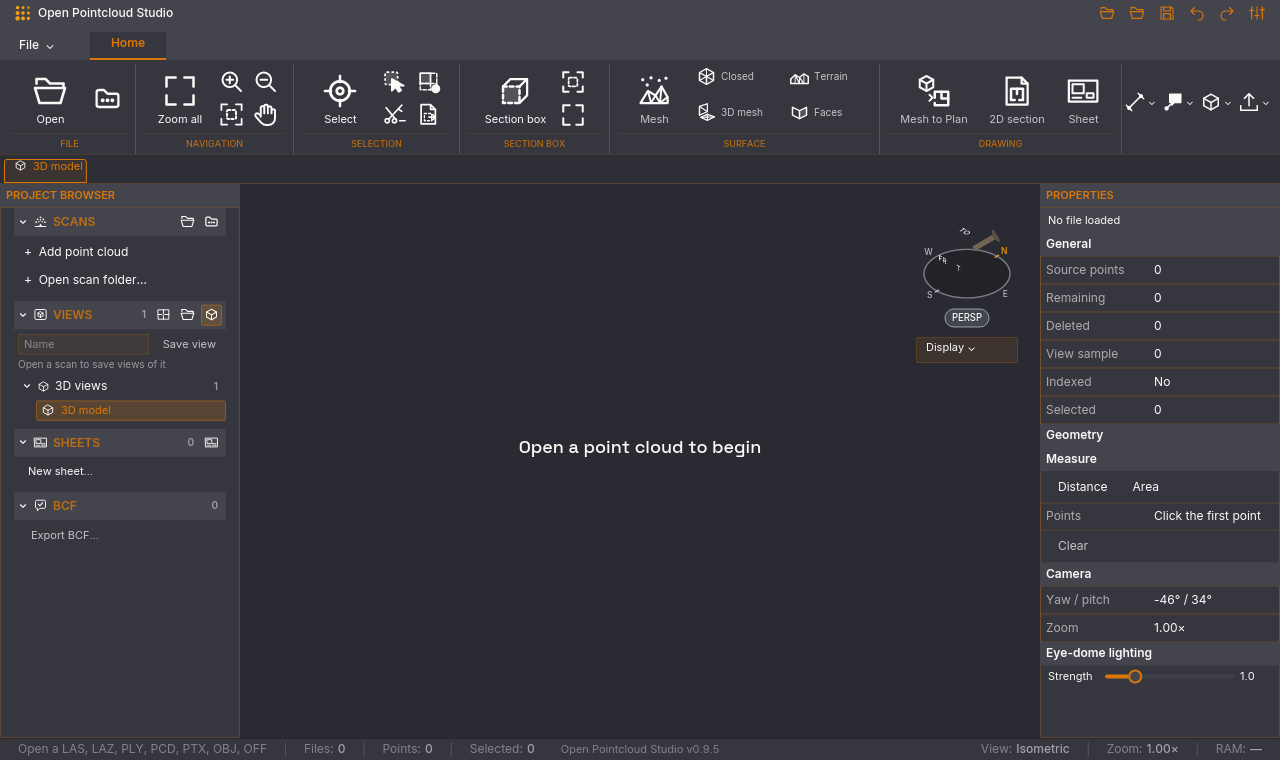
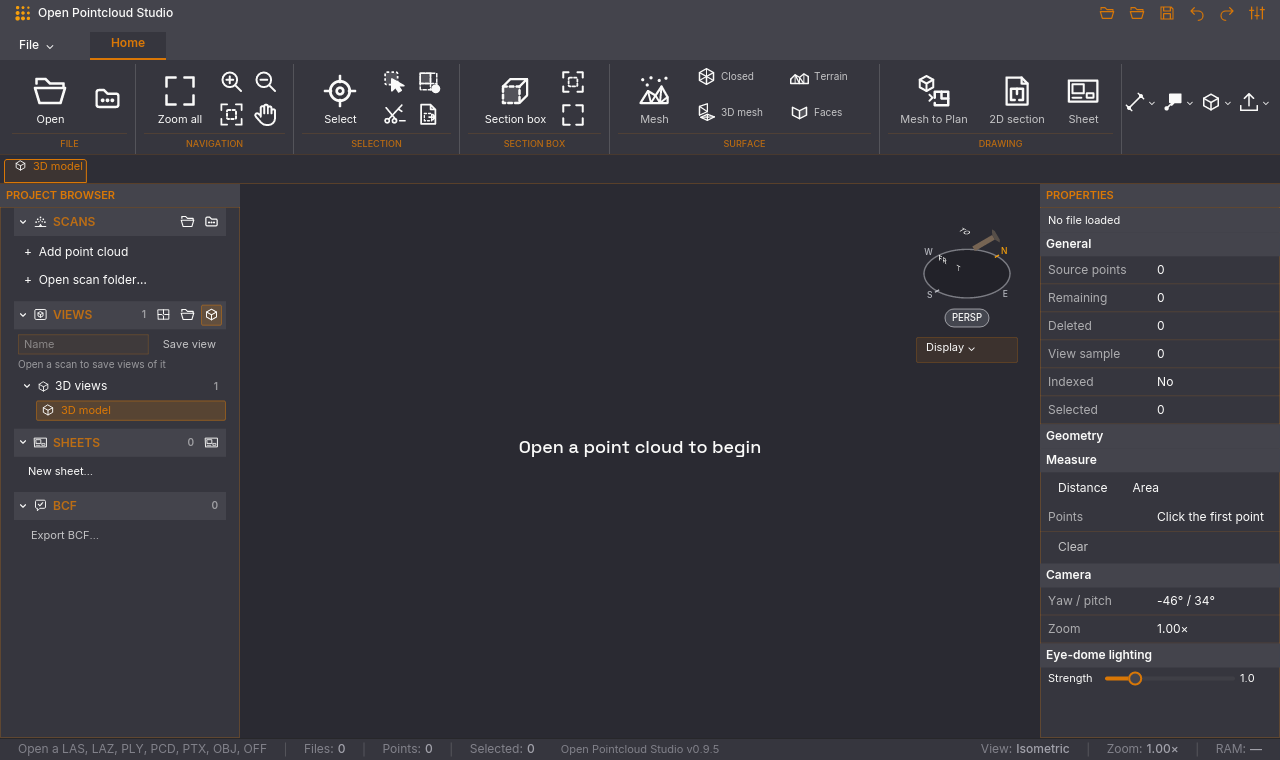
Use shared Rust property grid in Pointcloud dock

diff --git a/native/desktop/src/opencad_properties.rs b/native/desktop/src/opencad_properties.rs
@@ -4,7 +4,7 @@
 // iced 0.13 palette API.
 
 use iced::widget::{container, row, text};
-use iced::{Background, Border, Element, Fill, Length, Theme};
+use iced::{Border, Element, Fill, Length, Theme};
 
 use crate::ui_style;
 use crate::ui_theme;
@@ -13,33 +13,11 @@ use crate::Message;
 const ROW_H: f32 = 28.0;
 const FONT_SZ: f32 = 12.0;
 
-/// OpenCADStudio's two-column label/value row, adapted for read-only scan data.
+/// Shared property-grid row with Pointcloud's translated field label.
 pub fn property_row(label: &'static str, value: String) -> Element<'static, Message> {
-    let label = crate::i18n::tr(label);
-    let label_col = container(text(label).size(FONT_SZ).style(|theme| text::Style {
-        color: Some(ui_theme::colors(theme).text_secondary),
-    }))
-    .width(Length::FillPortion(5))
-    .height(ROW_H)
-    .align_y(iced::Alignment::Center)
-    .padding([0, 6]);
-    let value_col = container(text(value).size(FONT_SZ))
-        .width(Length::FillPortion(6))
-        .height(ROW_H)
-        .align_y(iced::Alignment::Center)
-        .padding([0, 5]);
-    container(row![label_col, value_col])
-        .height(ROW_H)
-        .width(Fill)
-        .style(|theme: &Theme| container::Style {
-            border: Border {
-                color: ui_theme::colors(theme).border_subtle,
-                width: 1.0,
-                radius: 0.0.into(),
-            },
-            ..Default::default()
-        })
-        .into()
+    openaec_ui::widgets::property_grid_row_with(
+        crate::i18n::tr(label), value, ui_theme::shared_theme,
+    )
 }
 
 /// Keep survey bounds readable within OpenCADStudio's narrow properties dock.
@@ -86,38 +64,14 @@ pub fn bounds_row(axis: &'static str, min: f64, max: f64) -> Element<'static, Me
         .into()
 }
 
-/// Editable variant of OpenCADStudio's two-column property row.
+/// Editable property field in the shared grid.
 pub fn property_input<'a>(
     label: &'static str,
     placeholder: &'static str,
     value: &'a str,
     on_input: impl Fn(String) -> Message + 'a,
 ) -> Element<'a, Message> {
-    let label = crate::i18n::tr(label);
-    let label_col = container(text(label).size(FONT_SZ).style(|theme| text::Style {
-        color: Some(ui_theme::colors(theme).text_secondary),
-    }))
-    .width(Length::FillPortion(5))
-    .height(ROW_H)
-    .align_y(iced::Alignment::Center)
-    .padding([0, 6]);
-    let value_col = container(ui_style::text_input(placeholder, value).on_input(on_input))
-        .width(Length::FillPortion(6))
-        .height(ROW_H)
-        .align_y(iced::Alignment::Center)
-        .padding([0, 5]);
-    container(row![label_col, value_col])
-        .height(ROW_H)
-        .width(Fill)
-        .style(|theme: &Theme| container::Style {
-            border: Border {
-                color: ui_theme::colors(theme).border_subtle,
-                width: 1.0,
-                radius: 0.0.into(),
-            },
-            ..Default::default()
-        })
-        .into()
+    property_control(label, ui_style::text_input(placeholder, value).on_input(on_input).into())
 }
 
 /// The two-column row with a control of the caller's choice, such as a
@@ -126,46 +80,15 @@ pub fn property_control<'a>(
     label: &'static str,
     control: Element<'a, Message>,
 ) -> Element<'a, Message> {
-    let label = crate::i18n::tr(label);
-    let label_col = container(text(label).size(FONT_SZ).style(|theme| text::Style {
-        color: Some(ui_theme::colors(theme).text_secondary),
-    }))
-    .width(Length::FillPortion(5))
-    .height(ROW_H)
-    .align_y(iced::Alignment::Center)
-    .padding([0, 6]);
-    let value_col = container(control)
-        .width(Length::FillPortion(6))
-        .height(ROW_H)
-        .align_y(iced::Alignment::Center)
-        .padding([0, 5]);
-    container(row![label_col, value_col])
-        .height(ROW_H)
-        .width(Fill)
-        .style(|theme: &Theme| container::Style {
-            border: Border {
-                color: ui_theme::colors(theme).border_subtle,
-                width: 1.0,
-                radius: 0.0.into(),
-            },
-            ..Default::default()
-        })
-        .into()
+    openaec_ui::widgets::property_grid_control_with(
+        crate::i18n::tr(label), control, ui_theme::shared_theme,
+    )
 }
 
 pub fn section_header(title: &'static str) -> Element<'static, Message> {
-    container(
-        text(crate::i18n::tr(title))
-            .size(12)
-            .font(crate::fonts::SEMIBOLD),
+    openaec_ui::widgets::property_section_with(
+        crate::i18n::tr(title), ui_theme::shared_theme,
     )
-    .width(Fill)
-    .padding([4, 6])
-    .style(|theme| container::Style {
-        background: Some(Background::Color(ui_theme::colors(theme).bg_lighter)),
-        ..Default::default()
-    })
-    .into()
 }
 
 /// A control whose explanation shows in a tooltip above it instead of as

diff --git a/native/ui/src/widgets.rs b/native/ui/src/widgets.rs
@@ -667,3 +667,87 @@ pub fn property<'a, M: 'a>(
     .spacing(12)
     .into()
 }
+
+/// A compact 28 px property-grid row. The application supplies the field;
+/// the crate owns the common label/value columns and bottom rule.
+pub fn property_grid_control_with<'a, M: 'a, F>(
+    label: impl Into<String>,
+    control: Element<'a, M>,
+    resolve_theme: F,
+) -> Element<'a, M>
+where
+    F: Fn(&iced::Theme) -> Theme + Copy + 'a,
+{
+    let label = container(text(label.into()).font(fonts::BODY).size(12).style(move |theme| {
+        text::Style {
+            color: Some(resolve_theme(theme).tokens().text_secondary),
+        }
+    }))
+    .width(Length::FillPortion(5))
+    .height(27)
+    .padding([0, 8])
+    .align_y(iced::Alignment::Center);
+    let value = container(control)
+        .width(Length::FillPortion(6))
+        .height(27)
+        .padding([0, 8])
+        .align_y(iced::Alignment::Center)
+        .style(move |theme| {
+            container::Style::default().color(resolve_theme(theme).tokens().text)
+        });
+    let rule = container(iced::widget::Space::new(Fill, 1))
+        .width(Fill)
+        .style(move |theme| {
+            container::Style::default().background(resolve_theme(theme).tokens().border_subtle)
+        });
+    column![row![label, value].height(27), rule]
+        .height(28)
+        .width(Fill)
+        .into()
+}
+
+pub fn property_grid_row_with<'a, M: 'a, F>(
+    label: impl Into<String>,
+    value: impl Into<String>,
+    resolve_theme: F,
+) -> Element<'a, M>
+where
+    F: Fn(&iced::Theme) -> Theme + Copy + 'a,
+{
+    property_grid_control_with(
+        label,
+        text(value.into()).font(fonts::BODY).size(12).into(),
+        resolve_theme,
+    )
+}
+
+pub fn property_grid_row<'a, M: 'a>(
+    label: impl Into<String>,
+    value: impl Into<String>,
+    theme: Theme,
+) -> Element<'a, M> {
+    property_grid_row_with(label, value, move |_| theme)
+}
+
+pub fn property_section_with<'a, M: 'a, F>(
+    title: impl Into<String>,
+    resolve_theme: F,
+) -> Element<'a, M>
+where
+    F: Fn(&iced::Theme) -> Theme + Copy + 'a,
+{
+    container(text(title.into()).font(fonts::STRONG).size(12))
+        .width(Fill)
+        .height(24)
+        .padding([0, 6])
+        .align_y(iced::Alignment::Center)
+        .style(move |theme| {
+            let t = resolve_theme(theme).tokens();
+            container::Style::default().background(t.bg_lighter).color(t.text)
+        })
+        .into()
+}
+
+pub fn property_section<'a, M: 'a>(title: impl Into<String>, theme: Theme) -> Element<'a, M> {
+    property_section_with(title, move |_| theme)
+}

diff --git a/native/desktop/src/shell_tests.rs b/native/desktop/src/shell_tests.rs
@@ -142,6 +142,20 @@ fn ribbon_group_rules_follow_style_book_geometry() {
 }
 
 #[test]
+fn shared_property_rows_keep_a_28_pixel_rhythm_in_both_themes() {
+    let mut studio = Studio::default();
+    for theme in [UiTheme::Light, UiTheme::Forge] {
+        studio.ui_theme = theme;
+        let picture = crate::test_render::render_window(&studio, iced::Size::new(1280.0, 760.0));
+        let rule = picture.rgb(1100, 283);
+        assert_eq!(picture.rgb(1100, 311), rule, "{} second row", theme.key());
+        assert_eq!(picture.rgb(1100, 339), rule, "{} third row", theme.key());
+        assert_ne!(picture.rgb(1100, 282), rule, "{} one-pixel rule", theme.key());
+        assert_ne!(picture.rgb(1100, 256), picture.rgb(1100, 232), "{} section boundary", theme.key());
+    }
+}
+
+#[test]
 #[ignore = "regenerate native review images on demand"]
 fn export_harmonized_shell_previews() {
     let folder = std::path::Path::new(env!("CARGO_MANIFEST_DIR")).join("../design");

diff --git a/native/README.md b/native/README.md
@@ -62,7 +62,7 @@ The design follows [OpenCADStudio](https://github.com/HakanSeven12/OpenCADStudio
 
 Each file states its source and what was changed. OpenCADStudio is GPL-3.0, so the desktop crate is GPL-3.0-only; the licence text is [`desktop/LICENSE-GPL-3.0`](desktop/LICENSE-GPL-3.0). The core stays LGPL-3.0-or-later.
 
-Colours, group captions, active and hover states and the Settings dialog follow the [OpenAEC style book](https://github.com/OpenAEC-Foundation/OpenAEC-style-book). The five themes Light, Forge (dark), OpenAEC (dark), Blueprint and High contrast, with Light as the default, are the five columns of `themes.css` of its desktop template (commit `dfdcd41`): `ui_theme.rs` holds every variable of that file as a token of the same name, unchanged, with the semantic colours of the brand beside them and, under `dom`, the colours of the application itself (the scene, the paper of a drawing and of a sheet, and what is drawn on them). The fonts are those of the style book, static files under the SIL Open Font License: Inter in the weights 400, 500 and 600 for the interface and Space Grotesk Medium for headings, with their roles in `fonts.rs`, which every text drawn on a canvas names as well (a test holds it), the texts of drawings and sheets keeping a sans-serif of the system; see [`assets/fonts/README.md`](assets/fonts/README.md). `ui_style.rs` holds the shared styles of the shell: the primary and secondary buttons, the buttons of the ribbon and the small actions of the panels, links, text fields, choice lists with their menu, checkboxes, sliders, progress bars, scroll bars and tooltips, made through its own constructors (a test holds that the window makes none of these widgets itself), and the arrow that stays the pointer over buttons; the canvases never ask for the hand either (a test holds it), but light up what a click acts on or show the pointer for dragging over what is dragged. `status_bar.rs` supplies Pointcloud-specific status cells and cancel actions to the portable `openaec-ui::frame::status_bar`; the crate now owns the 22 px band, top rule, background and padding in every theme. The document strip is likewise framed by `openaec-ui::frame::document_bar` with the Style Book 30 px band and source borders. Its 24 px tabs and close controls use the shared `widgets::document_tab_style` and `widgets::document_close_style`; Pointcloud keeps its tab identities, shortening, close behavior and scroll position. Ten reviewed general tool icons now come from the shared Rust set; Zoom in, Zoom out, Pan and Fit selection were checked at 16, 24 and 32 px in Light and Forge before replacing their local SVGs. The ribbon groups now use `openaec-ui::widgets::ribbon_group` for their 94 px frame, inset, label rule and right separator; the adaptive ribbon still measures and collapses Pointcloud’s live command groups.
+Colours, group captions, active and hover states and the Settings dialog follow the [OpenAEC style book](https://github.com/OpenAEC-Foundation/OpenAEC-style-book). The five themes Light, Forge (dark), OpenAEC (dark), Blueprint and High contrast, with Light as the default, are the five columns of `themes.css` of its desktop template (commit `dfdcd41`): `ui_theme.rs` holds every variable of that file as a token of the same name, unchanged, with the semantic colours of the brand beside them and, under `dom`, the colours of the application itself (the scene, the paper of a drawing and of a sheet, and what is drawn on them). The fonts are those of the style book, static files under the SIL Open Font License: Inter in the weights 400, 500 and 600 for the interface and Space Grotesk Medium for headings, with their roles in `fonts.rs`, which every text drawn on a canvas names as well (a test holds it), the texts of drawings and sheets keeping a sans-serif of the system; see [`assets/fonts/README.md`](assets/fonts/README.md). `ui_style.rs` holds the shared styles of the shell: the primary and secondary buttons, the buttons of the ribbon and the small actions of the panels, links, text fields, choice lists with their menu, checkboxes, sliders, progress bars, scroll bars and tooltips, made through its own constructors (a test holds that the window makes none of these widgets itself), and the arrow that stays the pointer over buttons; the canvases never ask for the hand either (a test holds it), but light up what a click acts on or show the pointer for dragging over what is dragged. `status_bar.rs` supplies Pointcloud-specific status cells and cancel actions to the portable `openaec-ui::frame::status_bar`; the crate now owns the 22 px band, top rule, background and padding in every theme. The document strip is likewise framed by `openaec-ui::frame::document_bar` with the Style Book 30 px band and source borders. Its 24 px tabs and close controls use the shared `widgets::document_tab_style` and `widgets::document_close_style`; Pointcloud keeps its tab identities, shortening, close behavior and scroll position. Ten reviewed general tool icons now come from the shared Rust set; Zoom in, Zoom out, Pan and Fit selection were checked at 16, 24 and 32 px in Light and Forge before replacing their local SVGs. The ribbon groups now use `openaec-ui::widgets::ribbon_group` for their 94 px frame, inset, label rule and right separator; the adaptive ribbon still measures and collapses Pointcloud’s live command groups. The properties dock now supplies its localized field labels, values and interactive controls to `openaec-ui::widgets::property_grid_row_with`, `property_grid_control_with` and `property_section_with`, sharing 28 px rows and 24 px section headers with the Style Repo.
 
 ## User interface
 
